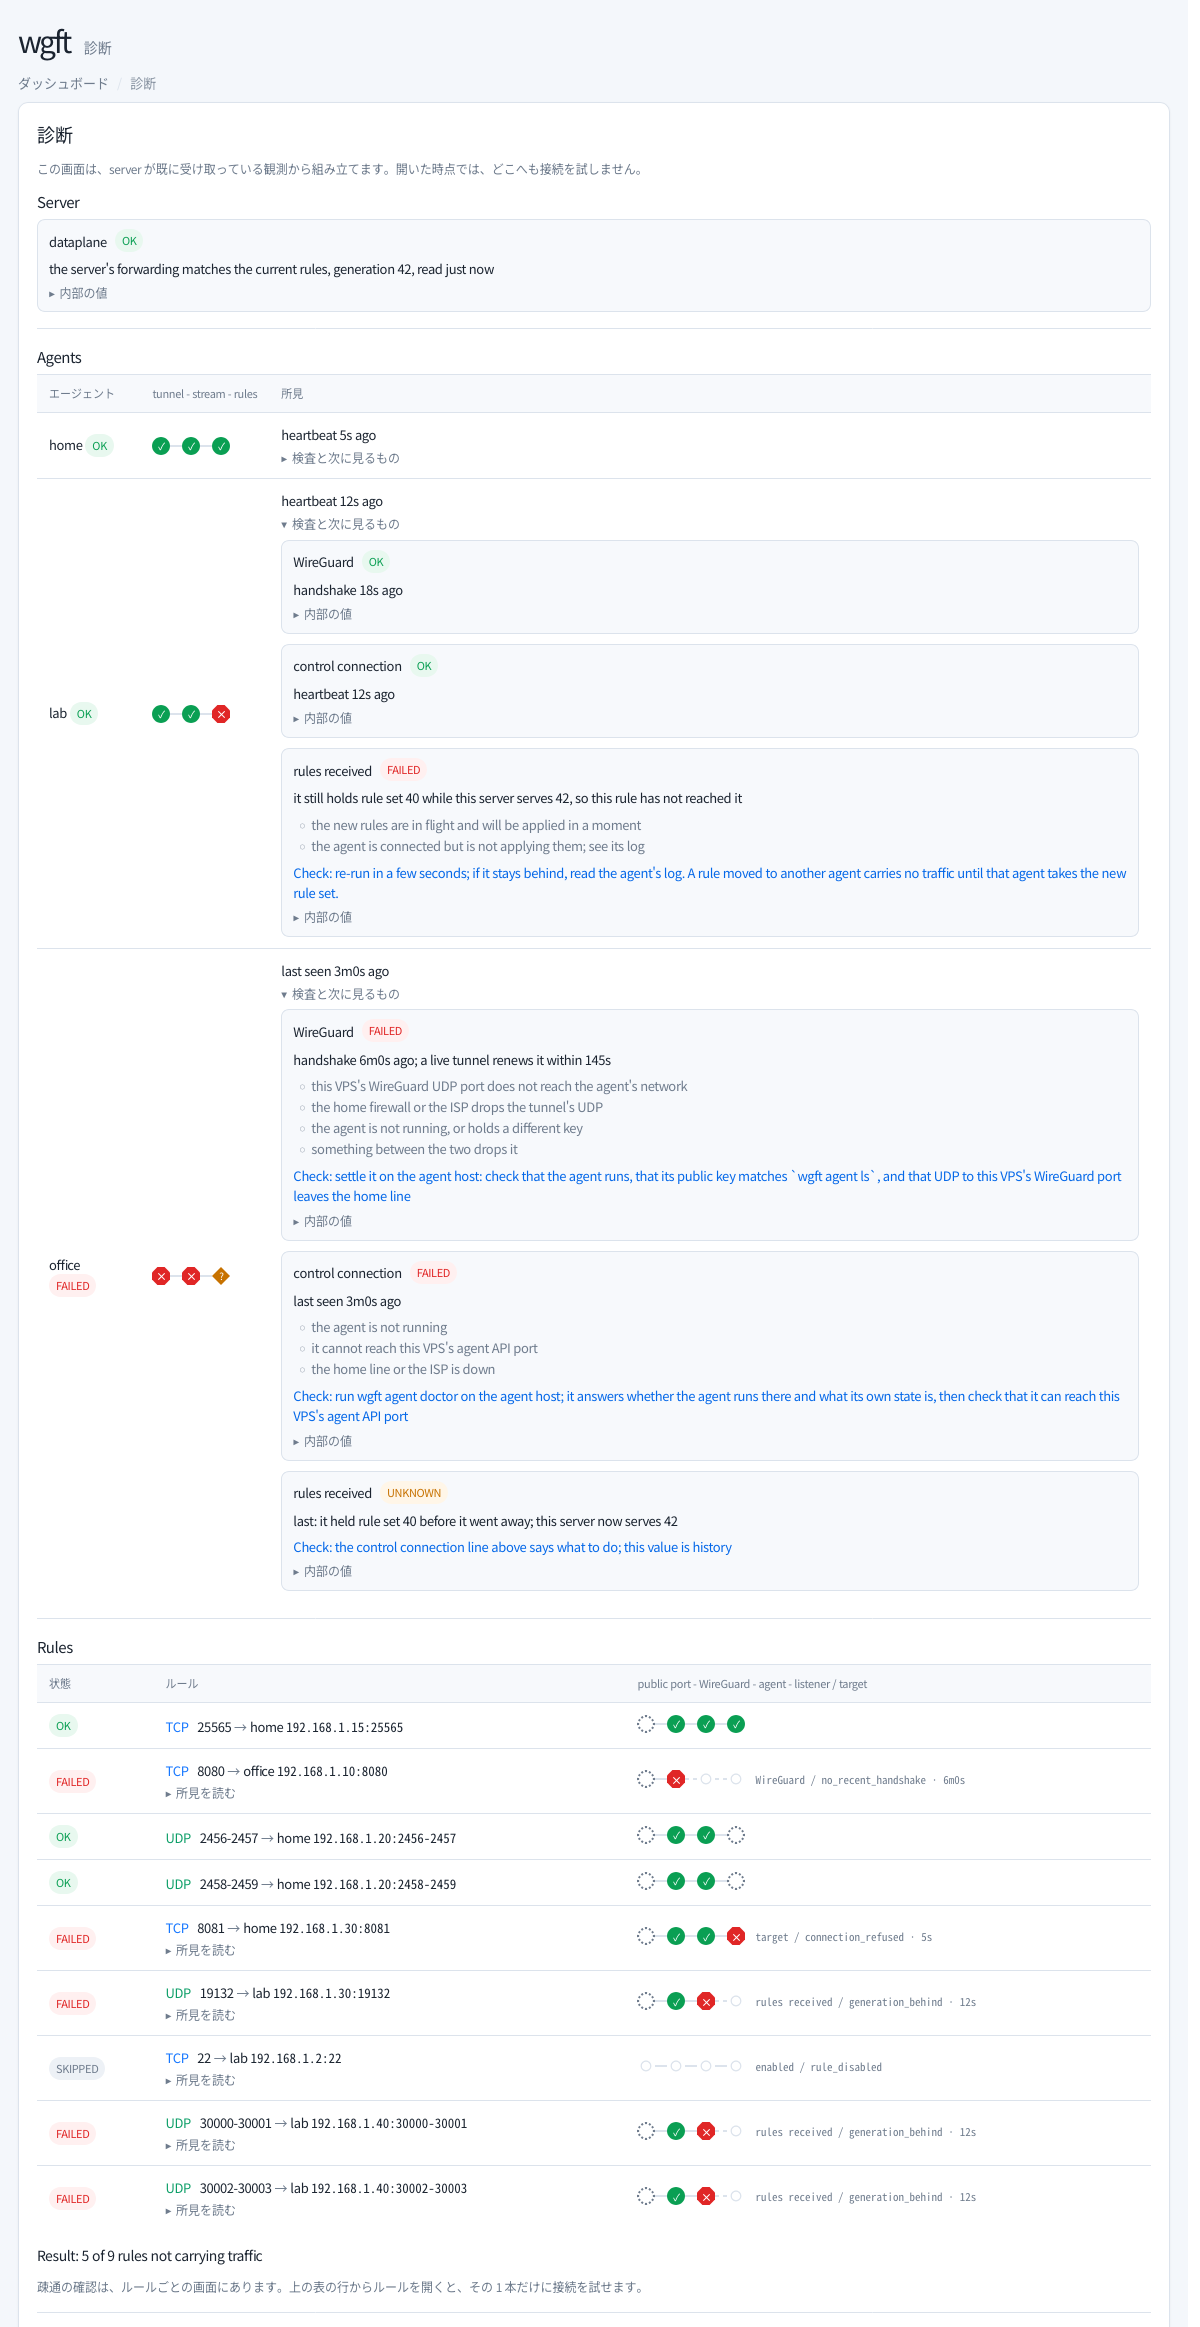
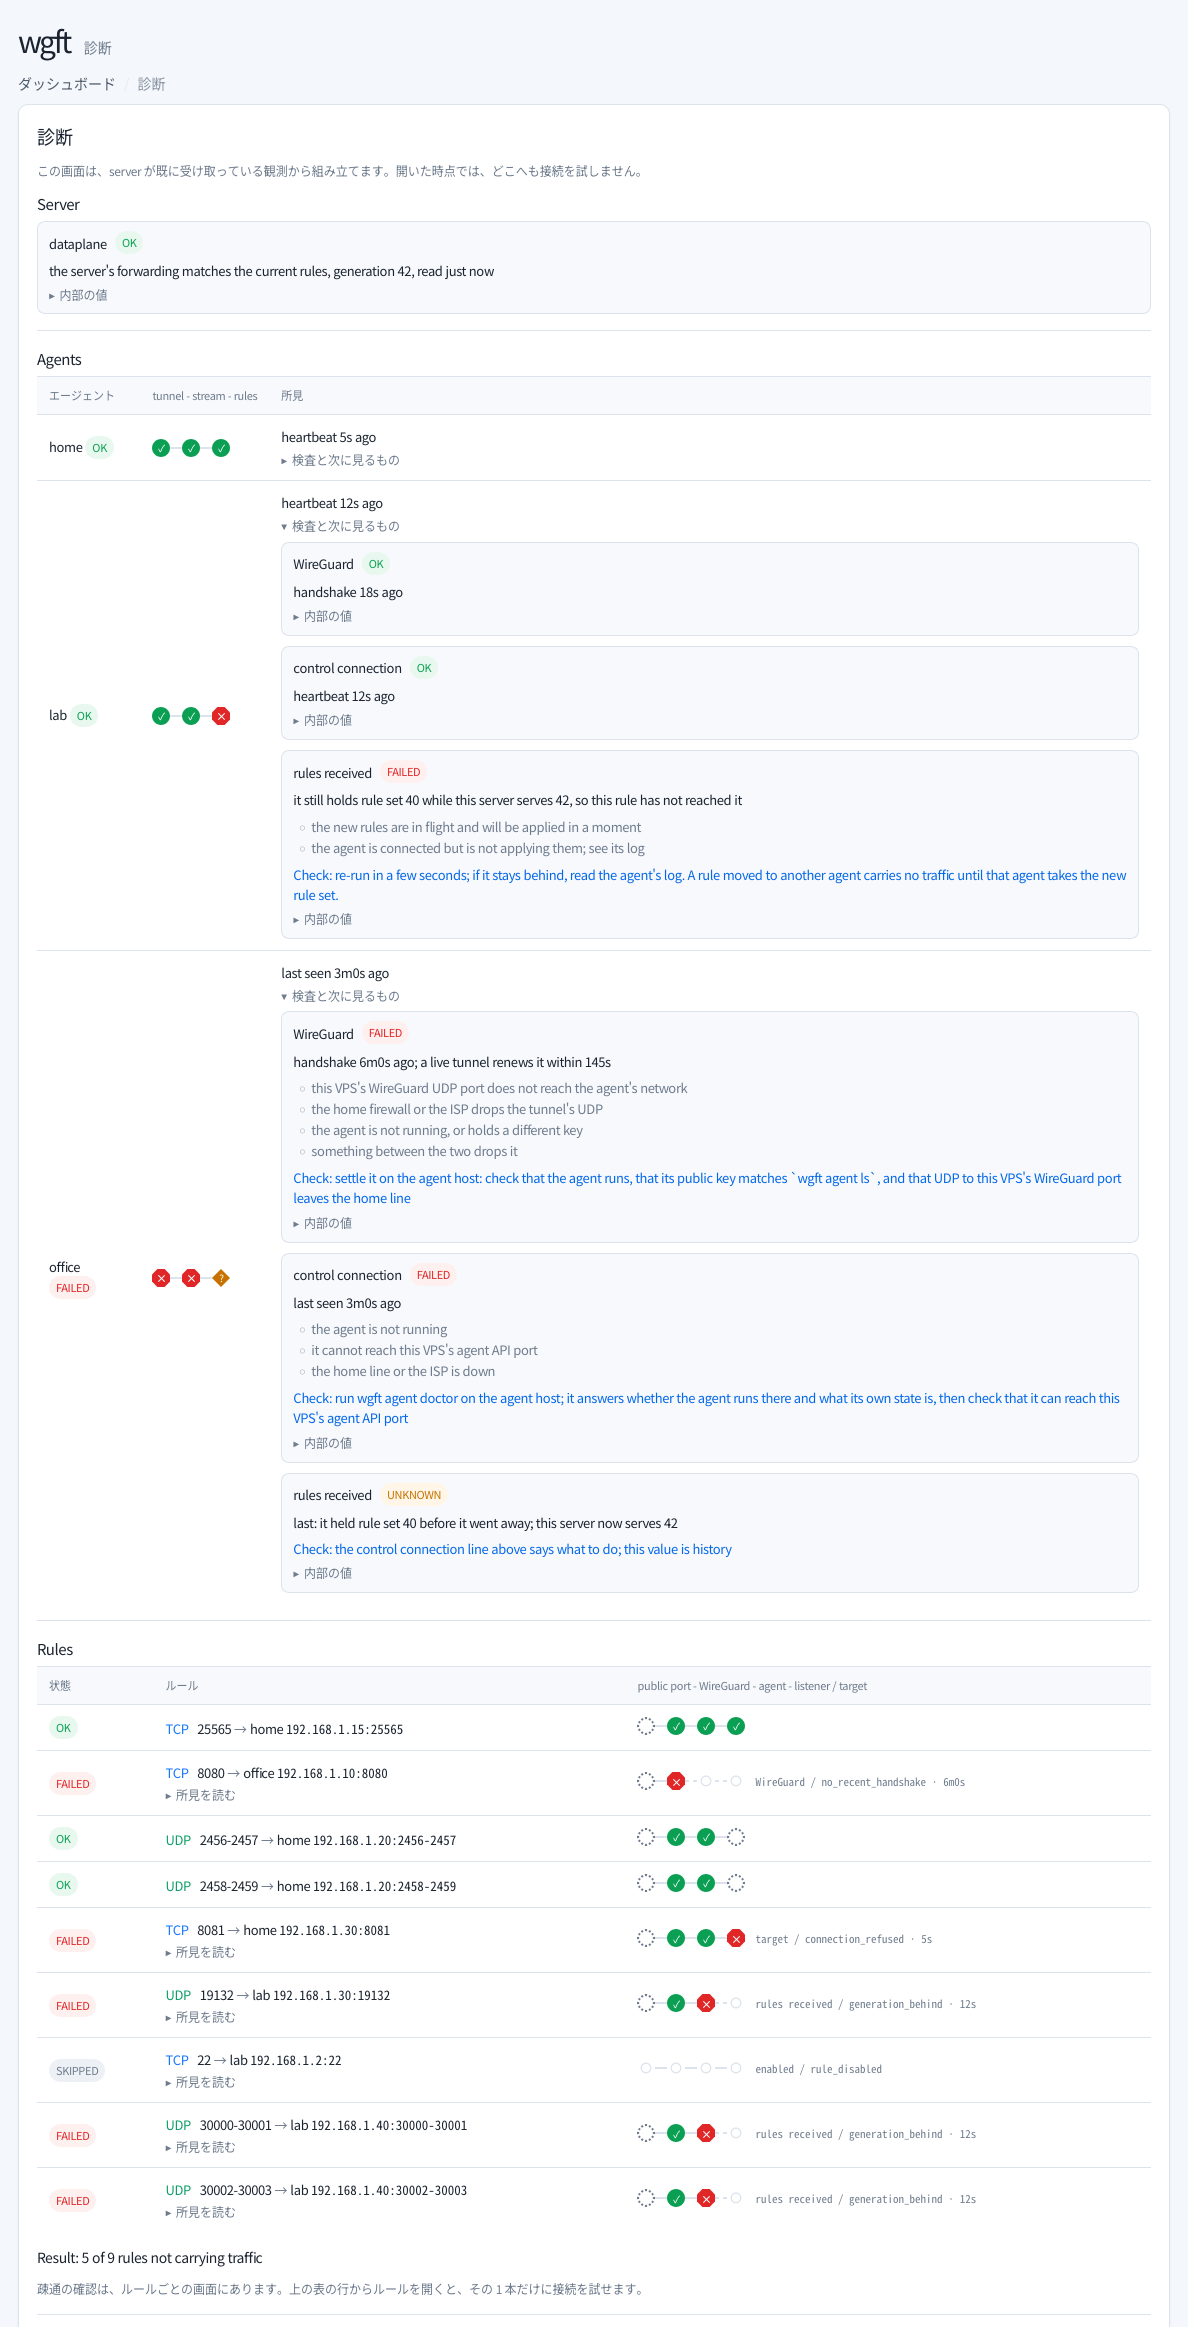
fix(ui): make the breadcrumb one step stronger
The breadcrumb was a flat light grey. It is now 14px with a gradation:
links sit between the body text and the muted colour at weight 500,
the current page stays muted and a little weaker, and the separator is
fainter than before. The colours are mixed from existing tokens, so
light and dark keep the same balance.

diff --git a/internal/vpsd/admin/webui/static/styles.css b/internal/vpsd/admin/webui/static/styles.css
@@ -284,11 +284,12 @@ a.small-btn { display: inline-flex; align-items: center; justify-content: center
 .doctor-table th.path-head { white-space: normal; }
 
 /* パンくず。ボタンではなく現在の位置を示すので、枠も背景も持たない小さな薄い文字にする */
-.crumbs { margin: -6px 0 10px; font-size: 13px; color: var(--muted); min-width: 0; }
+.crumbs { margin: -6px 0 10px; font-size: 14px; color: var(--muted); min-width: 0; }
 .crumbs ol { list-style: none; margin: 0; padding: 0; display: flex; flex-wrap: wrap; align-items: baseline; min-width: 0; }
 .crumbs li { display: flex; align-items: baseline; min-width: 0; max-width: 100%; }
-.crumbs li + li::before { content: "/"; margin: 0 8px; color: var(--border); }
-.crumbs a { color: var(--muted); text-decoration: none; }
+.crumbs li + li::before { content: "/"; margin: 0 8px; color: color-mix(in srgb, var(--border) 65%, var(--bg)); }
+/* 濃さの段階:リンクは本文と薄字の間、今いるページは薄字より一段弱く、区切りはさらに弱い */
+.crumbs a { color: color-mix(in srgb, var(--text) 35%, var(--muted)); font-weight: 500; text-decoration: none; }
 .crumbs a:hover, .crumbs a:focus-visible { color: var(--accent); text-decoration: underline; }
 .crumbs [aria-current] { opacity: 0.8; }
 /* 狭い画面では項目ごとに折り返し、1 項目が 1 行に収まらなければ末尾を省略する。横にはみ出させない */
